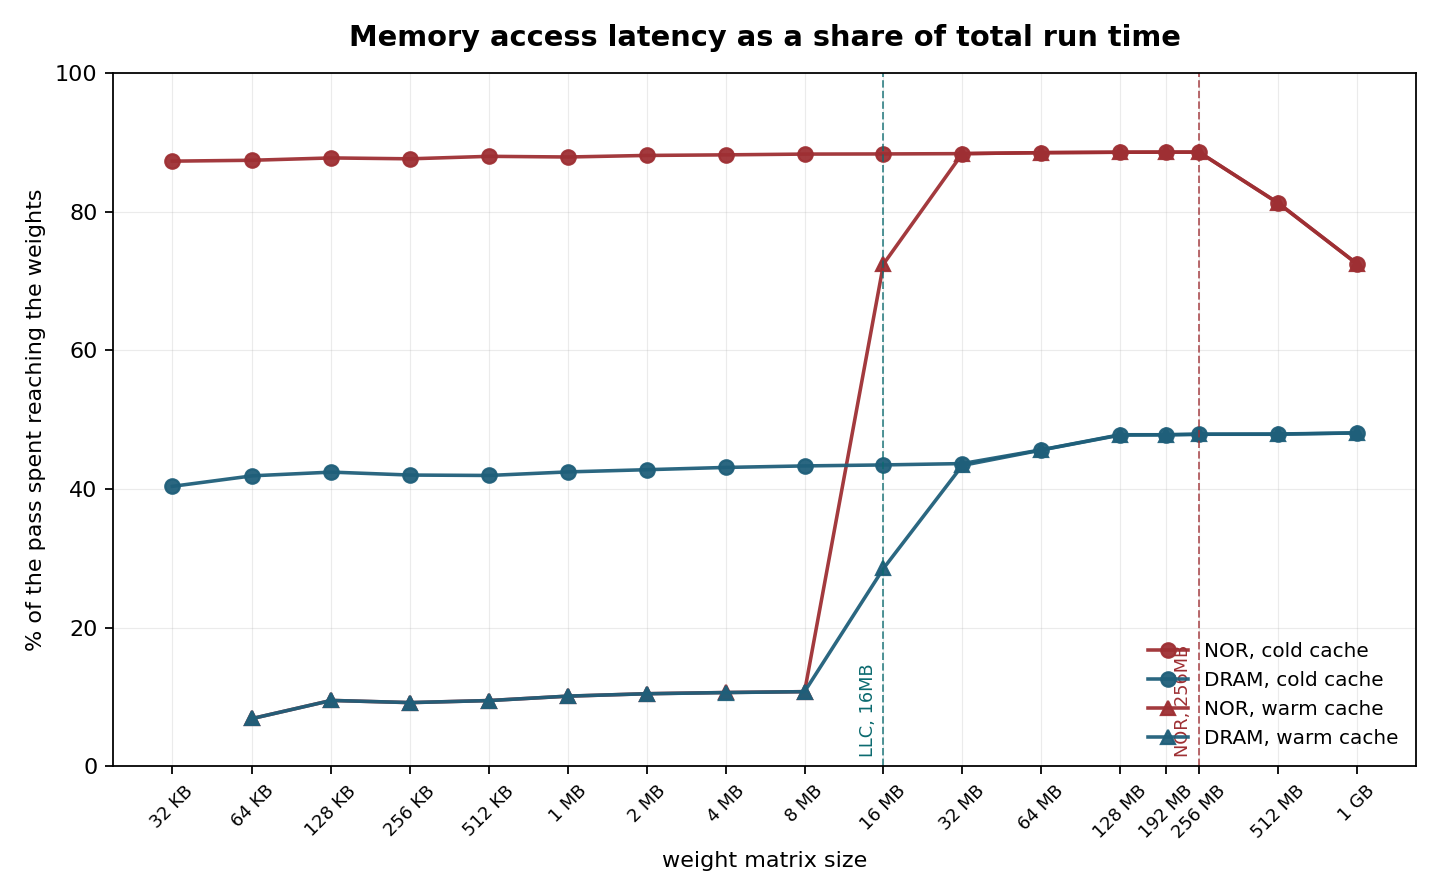
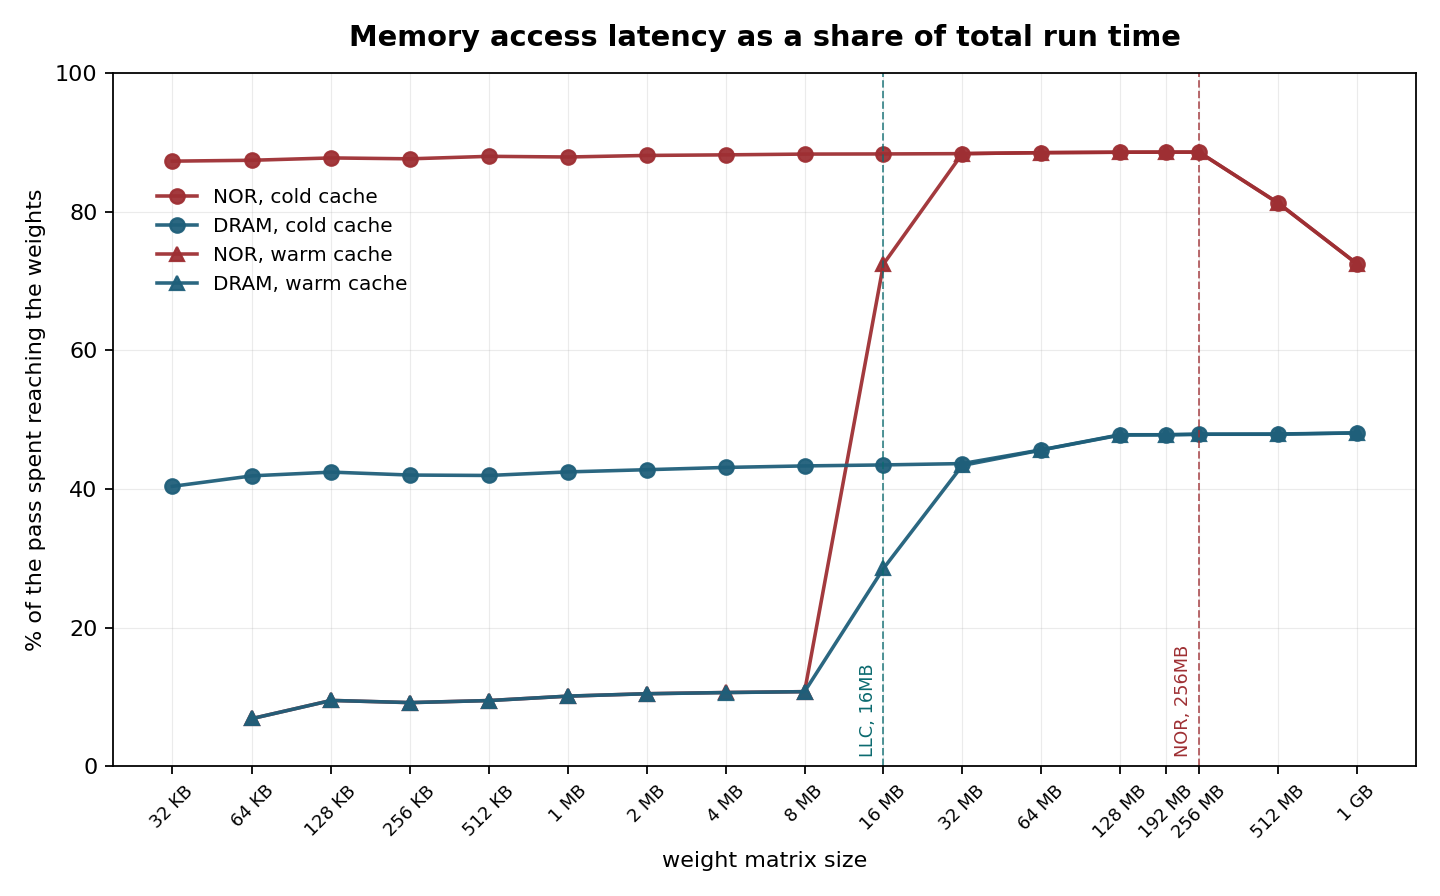
fig3: legend into the empty band between the NOR and DRAM curves
Lower right sat on the LLC and NOR labels along the floor. The NOR curves run
near 88% and the DRAM ones near 45% across the whole axis, so the space
between them is free at every x.

Changed region(s): [[0.0938, 0.2188, 0.2812, 0.3438], [0.7812, 0.7188, 0.9688, 0.8438]]

diff --git a/scripts/plot_sweep.py b/scripts/plot_sweep.py
@@ -207,7 +207,11 @@ frame(ax, "Memory access latency as a share of total run time", "% of the pass s
 # else is down there. Centre left sat on top of the DRAM cold curve.
 legend_in_order(ax, ["NOR, cold cache", "DRAM, cold cache",
                      "NOR, warm cache", "DRAM, warm cache"],
-                fontsize=9, loc="lower right", frameon=False)
+                # The band between the NOR curves near 88% and the DRAM ones
+                # near 45% is empty across the whole axis. Lower right sat on
+                # the LLC and NOR labels along the floor.
+                fontsize=9, loc="upper left", bbox_to_anchor=(0.02, 0.86),
+                frameon=False)
 fig.tight_layout(); fig.savefig(f"{a.dir}/fig3-memory-share.png", dpi=160)
 
 print(f"wrote {a.dir}/fig1, fig1b, fig2, fig3")
